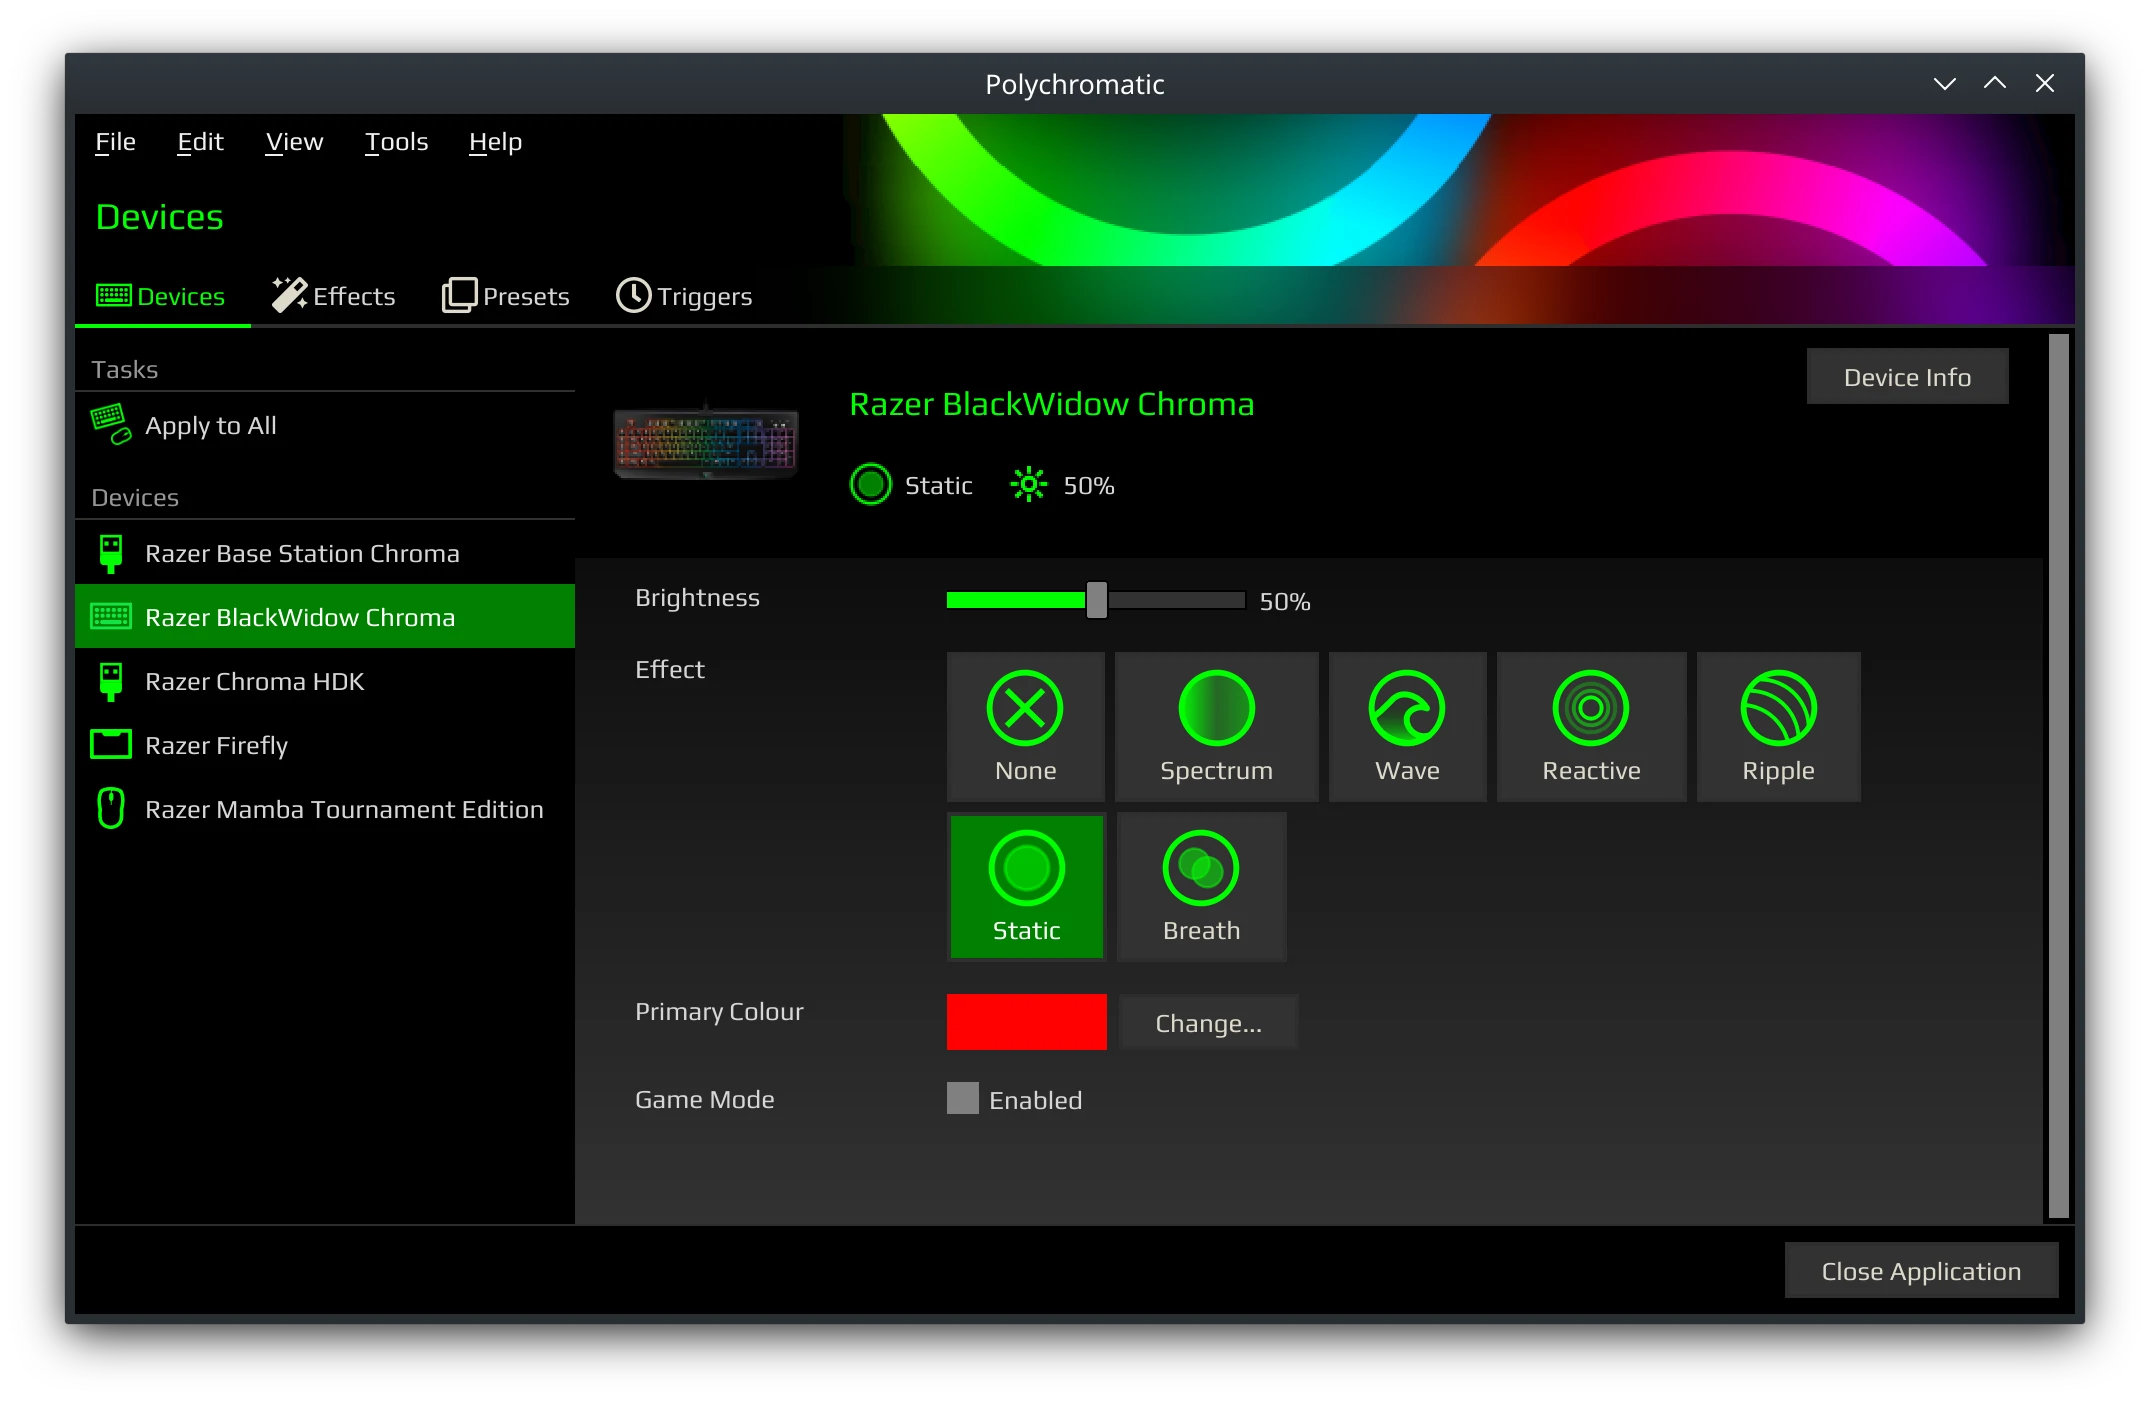
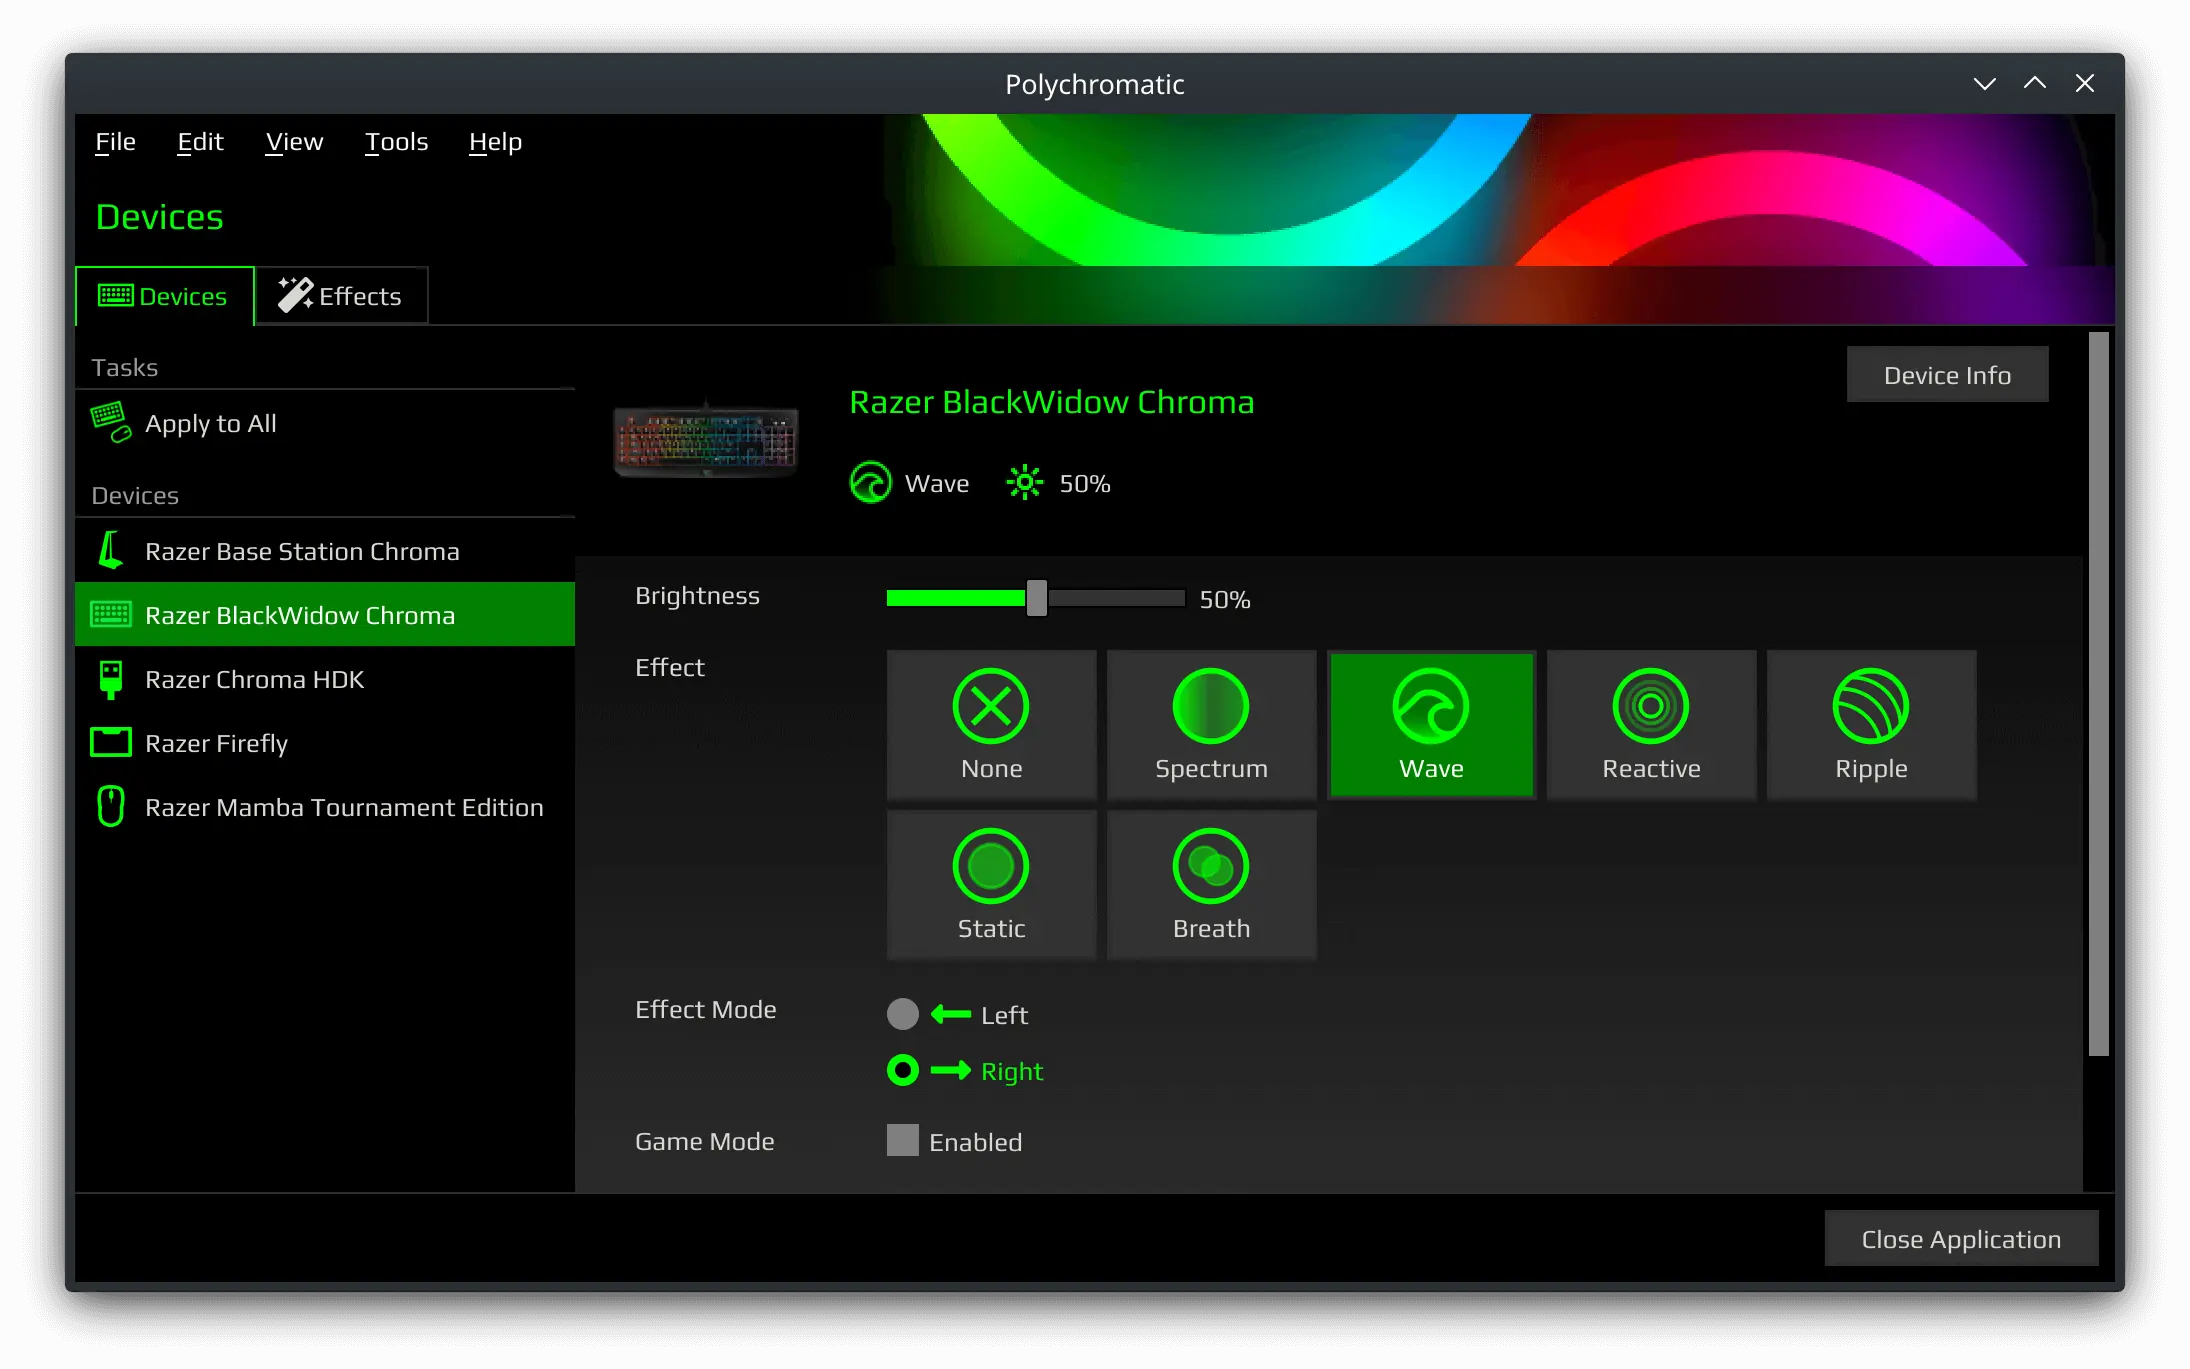
Update README and screenshots for v0.7.0

diff --git a/README.md b/README.md
@@ -1,4 +1,4 @@
-![Polychromatic](.github/logo.png)
+![Polychromatic](.github/logo.svg)
 
 An open source RGB lighting management front-end application to customise
 [OpenRazer] peripherals on GNU/Linux. Soon to be vendor agnostic!
@@ -6,27 +6,10 @@ An open source RGB lighting management front-end application to customise
 [![Build](https://github.com/polychromatic/polychromatic/workflows/Build/badge.svg?event=push)](https://github.com/polychromatic/polychromatic/actions?query=workflow%3ABuild)
 [![Unit Tests](https://github.com/polychromatic/polychromatic/workflows/Unit%20Tests/badge.svg?event=push)](https://github.com/polychromatic/polychromatic/actions?query=workflow%3A%22Unit+Tests%22)
 [![GitHub Release](https://img.shields.io/github/release/polychromatic/polychromatic.svg)](https://github.com/polychromatic/polychromatic/releases)
-[![License](https://img.shields.io/badge/license-GPLv3-blue.svg)](https://github.com/polychromatic/polychromatic/blob/master/LICENSE)
-[![Python Version](https://img.shields.io/badge/python-3.8.6-blue.svg)](#)
 
-![Screenshot of Polychromatic's v1.0.0 Controller interface](.github/controller@2x.webp)
-
-<p align="center">
-The next generation of the software (v1.0.0) - not released yet!
-</p>
+![Screenshot of Polychromatic v0.7.0 Controller](.github/controller@2x.webp)
 
 ### [https://polychromatic.app](https://polychromatic.app)
-
----
-
-## v0.3.12 Notice
-
-This README (and branch) is for the next generation of the software still in
-development. For the older release (v0.3.12) designed for Razer BlackWidow Chroma
-and is compatible with most Razer hardware that was supported before 2018, see the
-[stable branch](https://github.com/polychromatic/polychromatic/tree/stable-python38).
-
-v1.0.0 is aimed to be released for beta testing as soon as humanly possible!
 
 
 ## About
@@ -39,27 +22,33 @@ The software aims to make it easy to create and co-ordinate lighting effects
 that work across all compatible hardware, even if you switch to another brand
 also supported by Polychromatic.
 
+<!--
 Presets and triggers enables you to switch your lighting on-the-fly
 to match the application or game that's currently playing.
+-->
 
-[View Features & Screenshots](https://polychromatic.app/about/) (v0.3.12)
+[View Features](https://polychromatic.app/features/) |
+[View Screenshots](https://polychromatic.app/screenshots/) |
+[View FAQs and Documentation](https://docs.polychromatic.app/)
 
 
 ## Device Support
 
-Polychromatic on its own is just a front-end, it needs at least one backend
+Polychromatic on its own is just a frontend, it needs at least one backend
 installed to provide the actual communication with the hardware.
 
 **Currently, [OpenRazer](https://openrazer.github.io) is the only supported
 backend at the moment.** (Being vendor agnostic is a fairly new objective!)
 
-To check your Razer device is supported, check out the
-[supported devices grid](https://openrazer.github.io/#devices) on the OpenRazer website.
+In future, this project would like to add support for:
 
-In future, this project aims to add support for:
+* [OpenRGB](https://github.com/polychromatic/polychromatic/issues/340) - supports many brands, including GPU, MB and RAM modules.
+* [phue](https://github.com/polychromatic/polychromatic/issues/296) - for Philips Hue support
 
-* [OpenRGB](https://gitlab.com/CalcProgrammer1/OpenRGB) - supports many brands, including GPU, MB and RAM modules.
-* [Philips Hue (phue)](https://github.com/polychromatic/polychromatic/issues/296)
+> **Note:** Between v0.7.0 and the next version, there will be some major
+> refactoring in the backend classes.
+
+[View Device List](https://polychromatic.app/devices/)
 
 
 ## Download
@@ -73,8 +62,11 @@ the software up-to-date.
 
 Alternately, providing all the [dependencies](https://docs.polychromatic.app/dependencies/)
 are installed, you can run the application directly from the repository without
-installation. The `polychromatic-controller-dev` script will create an isolated
-configuration in `dev/config` as opposed to `~/.config/polychromatic`.
+installation.  Your configuration and cache is isolated to a `savedatadev` directory
+when running via `polychromatic-controller-dev`. To isolate for other components,
+set this environment variable:
+
+    export POLYCHROMATIC_DEV_CFG=true
 
 **Are you on the cutting edge?**
 
@@ -95,7 +87,7 @@ installation. Polychromatic includes a troubleshooter to identify common problem
 Should you still be stuck, [check if an issue already exists](https://github.com/openrazer/openrazer/issues),
 and that your hardware is supported before [creating a new issue](https://github.com/openrazer/openrazer/issues/new).
 
-For bugs with Polychromatic, [please raise an issue here](https://github.com/polychromatic/polychromatic/issues/new).
+For bugs with Polychromatic, [please raise an issue here](https://github.com/polychromatic/polychromatic/issues/).
 
 
 ## Translations
@@ -103,15 +95,11 @@ For bugs with Polychromatic, [please raise an issue here](https://github.com/pol
 The software can speak multiple languages!
 [Here's a guide](https://docs.polychromatic.app/translations/) if you'd like to contribute.
 
-Please note that there may be new and changed strings while this new
-version is being finalized.
-
 
 ## Donations
 
 If you love this software and wish to leave a little something to excite the
 developer, you're welcome to do so [via paypal.me](https://www.paypal.me/LukeHorwell).
 Thank you for your generosity!
-
 
 [OpenRazer]: https://openrazer.github.io
